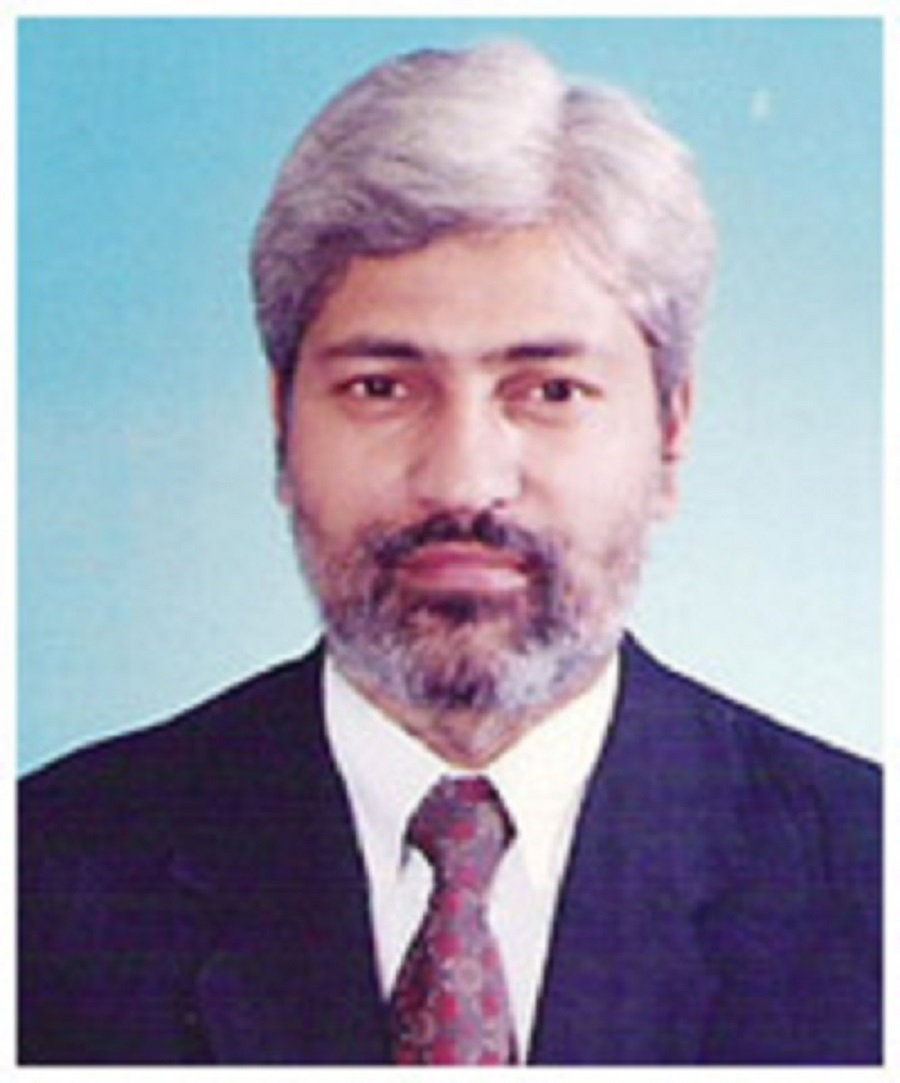
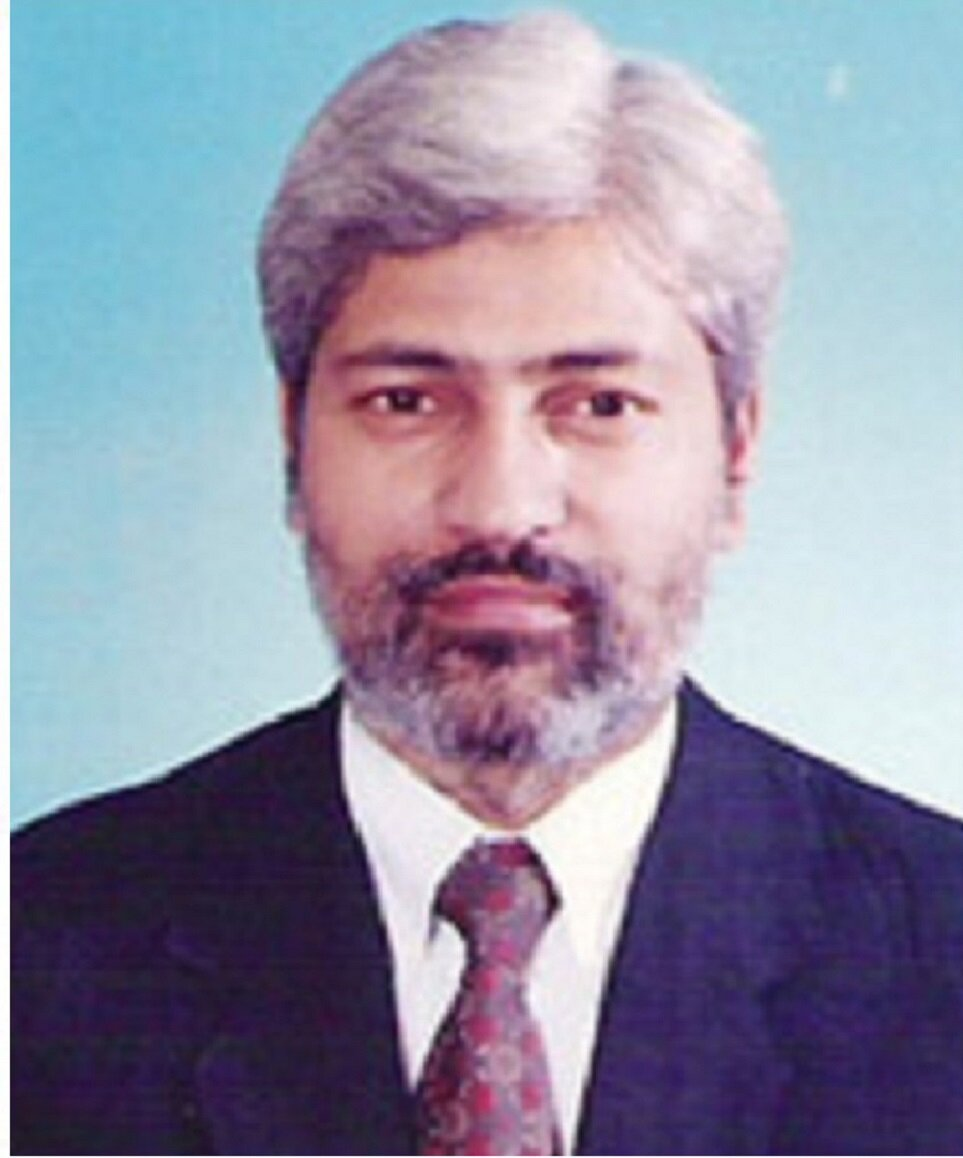
New commit

diff --git a/_layouts/base.html b/_layouts/base.html
@@ -12,7 +12,6 @@ description: >
 <link rel="stylesheet" href="{{ '/assets/css/screen.css' | prepend: site.baseurl }}">
 <meta name="author" content="Indra Prasad Tiwari">
 <link rel="canonical" href="https://www.indratiwari.com.np/">
-<link rel="alternate" type="application/rss+xml" title="RSS Feed for Indra Prasad Tiwari" href="https://indratiwari.com.np/feed.xml">
 <link rel="stylesheet" href="{{ '/assets/css/screen.css' | prepend: site.baseurl }}" type="text/css">
 <link href="https://fonts.googleapis.com/css?family=Lato&display=swap" rel="stylesheet">
 <link href="https://fonts.googleapis.com/css?family=Prata&display=swap" rel="stylesheet">
@@ -25,7 +24,11 @@ description: >
     gtag('config', '');
   </script>
 
-<title>Indra Prasad Tiwari · Home</title>
+{% if page.collection == "class" %}
+<title>{{ page.firstname | escape }} {{ page.lastname | escape }} - {{ site.title | escape }}</title>
+{% else %}
+<title>{% if page.title %}{{ page.title | escape }} - {% endif %}{{ site.title | escape }}</title>
+{% endif %}
 <meta name="title" content="Indra Prasad Tiwari · Home">
 <meta name="description" content="Indra Prasad Tiwari’s Personal Website">
 <meta name="author" content="Indra Prasad Tiwari">

diff --git a/index.htm b/index.htm
@@ -21,7 +21,7 @@ main ul span {
   }
 </style>
 <section class="limit">
-<img src="{{ '/assets/img/indratiwari.png' | prepend: site.baseurl }}" alt="Photo of Prof. Indra Prasad Tiwari, PhD" style="display:block;border-radius:25%;width:7em;margin:2rem 0 2rem;">
+<img src="{{ '/assets/img/iptiwari.jpg' | prepend: site.baseurl }}" alt="Photo of Prof. Indra Prasad Tiwari, PhD" style="display:block;border-radius:25%;width:7em;margin:2rem 0 2rem;">
 <p>I am Indra P Tiwari, PhD, a Professor of Development and Planning. I obtained MA Degree 
   in Geography from Tribhuvan University, Nepal; MSc in Human Settlements Development 
   and PhD in Rural and Regional Development Planning from the Asian Institute of 

diff --git a/assets/css/screen.css b/assets/css/screen.css
@@ -35,7 +35,7 @@ body {
 	line-height: 1.4
 }
 
-div.redesign {
+div.tagline {
 	background-color: bisque;
 	margin: 0 -1rem;
 	padding: 0.25rem 0.5rem;
@@ -46,7 +46,7 @@ div.redesign {
 	font-size: var(--font-small)
 }
 
-div.redesign a {
+div.tagline a {
 	color: #000
 }
 
